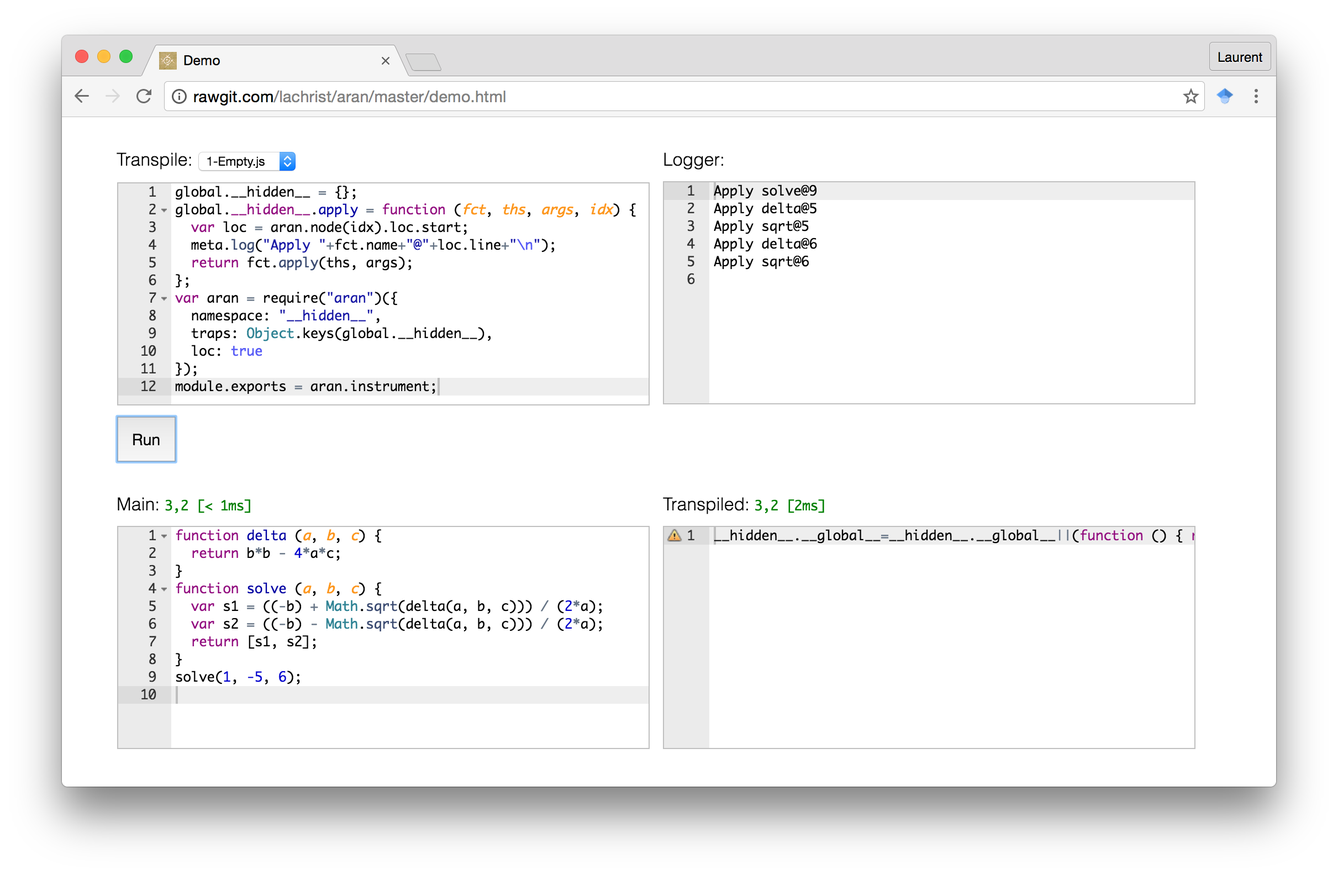
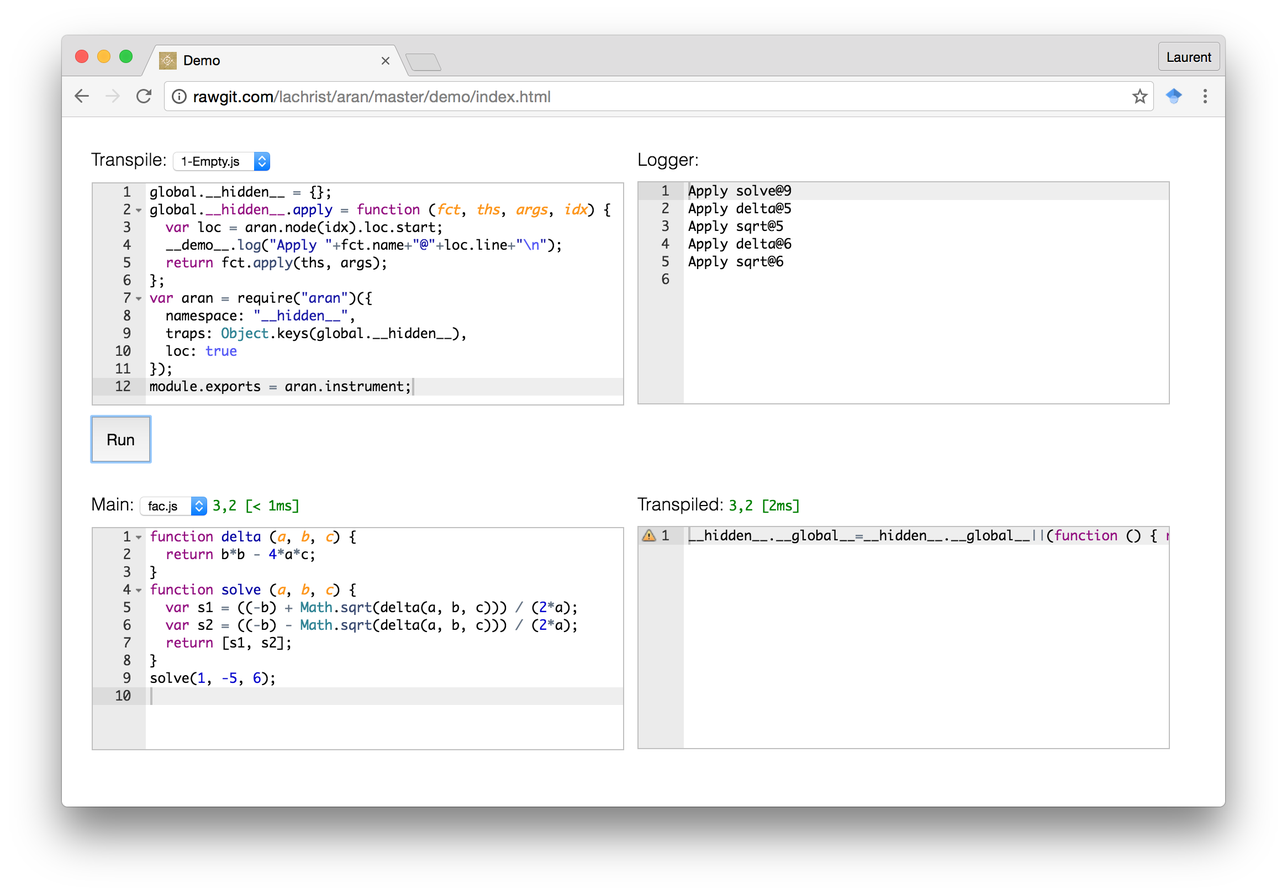
Update with new Otiluke transpiler format

diff --git a/demo/index.html b/demo/index.html
@@ -10368,10 +10368,6 @@ traps.expression = function (namespace, value, index) { return namespace+".expre
 forwards.expression = function (_, value, index) { return value }
 
 },{}],7:[function(require,module,exports){
-var namespace = "__demo__";
-var transpiles = {"1-Empty.js":"// This analysis does absolutely nothing! *yay* //\nvar Aran = require(\"aran\");\nvar JsBeautify = require(\"js-beautify\");\nvar traps = {};\nglobal.__hidden__ = traps;\nvar aran = Aran({namespace:\"__hidden__\", traps:Object.keys(traps)});\nmodule.exports = function (script, source) {\n  return JsBeautify.js_beautify(aran.instrument(script, source));\n};","2-Identity.js":"// This analysis traps everything and forward all operations //\nvar Aran = require(\"aran\");\nvar JsBeautify = require(\"js-beautify\");\nvar traps = {};\n// General //\ntraps.Program = function (idx) { };\ntraps.Strict = function (idx) { };\n// Creation //\ntraps.primitive = function (prm, idx) { return prm };\ntraps.closure = function (fct, idx) { return fct };\ntraps.object = function (prps, idx) {\n  var obj = {};\n  for (var i=0; i<prps.length; i++)\n    Object.defineProperty(obj, prps[i].key, prps[i]);\n  return obj;\n};\ntraps.array = function (vals, idx) { return vals };\ntraps.regexp = function (ptn, flg, idx) { return new RegExp(ptn, flg) }\n// Environment //\ntraps.Declare = function (kind, tags, idx) { };\ntraps.read = function (tag, val, idx) { return val };\ntraps.write = function (tag, val, wrt, idx) { return wrt(val) };\ntraps.Enter = function (idx) { };\ntraps.Leave = function (idx) { };\ntraps.with = function (env, idx) { return env };\n// Apply //\ntraps.apply = function (fct, ths, args, idx) { return fct.apply(ths, args) };\ntraps.construct = function (cst, args, idx) { return new cst(...args) };\ntraps.Arguments = function (args, i) { };\ntraps.return = function (val, idx) { return val };\ntraps.eval = function (args, idx) { return args[0] };\ntraps.unary = function (opr, arg, idx) { return eval(opr+\" arg\") };\ntraps.binary = function (opr, lft, rgt, idx) { return eval(\"lft \"+opr+\" rgt\") };\n// Object //\ntraps.get = function (obj, key, idx) { return obj[key] };\ntraps.set = function (obj, key, val, idx) { return obj[key] = val };\ntraps.delete = function (obj, key, idx) { return delete obj[key] };\ntraps.enumerate = function (obj, idx) {\n  var keys = [];\n  for (var key in obj)\n    keys.push(key);\n  return keys;\n};\n// Control //\ntraps.test = function (val, idx) { return val };\ntraps.Label = function (lbl, idx) { };\ntraps.Break = function (lbl, idx) { };\ntraps.throw = function (err, idx) { return err };\ntraps.Try = function (idx) { };\ntraps.catch = function (err, idx) { return err };\ntraps.Finally = function (idx) { };\ntraps.sequence = function (vals, idx) { return vals[vals.length-1] };\ntraps.expression = function (val, idx) { return val };\n// Exports //\nglobal.__hidden__ = traps;\nvar aran = Aran({namespace:\"__hidden__\", traps:Object.keys(traps)});\nmodule.exports = function (script, source) {\n  return JsBeautify.js_beautify(aran.instrument(script, source));\n};","3-Trace.js":"\n// This analysis traps AND logs everything and forward all operations //\n\n// BEGIN VERBATIM 2-Identity.js //\n// This analysis traps everything and forward all operations //\nvar Aran = require(\"aran\");\nvar JsBeautify = require(\"js-beautify\");\nvar traps = {};\n// General //\ntraps.Program = function (idx) { };\ntraps.Strict = function (idx) { };\n// Creation //\ntraps.primitive = function (prm, idx) { return prm };\ntraps.closure = function (fct, idx) { return fct };\ntraps.object = function (prps, idx) {\n  var obj = {};\n  for (var i=0; i<prps.length; i++)\n    Object.defineProperty(obj, prps[i].key, prps[i]);\n  return obj;\n};\ntraps.array = function (vals, idx) { return vals };\ntraps.regexp = function (ptn, flg, idx) { return new RegExp(ptn, flg) }\n// Environment //\ntraps.Declare = function (kind, tags, idx) { };\ntraps.read = function (tag, val, idx) { return val };\ntraps.write = function (tag, val, wrt, idx) { return wrt(val) };\ntraps.Enter = function (idx) { };\ntraps.Leave = function (idx) { };\ntraps.with = function (env, idx) { return env };\n// Apply //\ntraps.apply = function (fct, ths, args, idx) { return fct.apply(ths, args) };\ntraps.construct = function (cst, args, idx) { return new cst(...args) };\ntraps.Arguments = function (args, i) { };\ntraps.return = function (val, idx) { return val };\ntraps.eval = function (args, idx) { return args[0] };\ntraps.unary = function (opr, arg, idx) { return eval(opr+\" arg\") };\ntraps.binary = function (opr, lft, rgt, idx) { return eval(\"lft \"+opr+\" rgt\") };\n// Object //\ntraps.get = function (obj, key, idx) { return obj[key] };\ntraps.set = function (obj, key, val, idx) { return obj[key] = val };\ntraps.delete = function (obj, key, idx) { return delete obj[key] };\ntraps.enumerate = function (obj, idx) {\n  var keys = [];\n  for (var key in obj)\n    keys.push(key);\n  return keys;\n};\n// Control //\ntraps.test = function (val, idx) { return val };\ntraps.Label = function (lbl, idx) { };\ntraps.Break = function (lbl, idx) { };\ntraps.throw = function (err, idx) { return err };\ntraps.Try = function (idx) { };\ntraps.catch = function (err, idx) { return err };\ntraps.Finally = function (idx) { };\ntraps.sequence = function (vals, idx) { return vals[vals.length-1] };\ntraps.expression = function (val, idx) { return val };\n// Exports //\nglobal.__hidden__ = traps;\nvar aran = Aran({namespace:\"__hidden__\", traps:Object.keys(traps)});\nmodule.exports = aran.instrument;\n// END VERBATIM 2-Identity.js //\n\nvar log = (function () {\n  function locate (index) {\n    var node = aran.node(index);\n    var source = aran.source(index);\n    var loc = node.loc.start;\n    return node.type + \"@\" + source + \"#\" + loc.line + \":\" + loc.column;\n  }\n  function message (name, array) {\n    var string = name+\" \"+locate(array[array.length-1]) + \" >>\";\n    for (var i=0; i<array.length-1; i++)\n      string += (\" \" + array[i]).substring(0, 10);\n    return string;\n  }\n  return global.meta\n    ? function (name, array) { meta.log(message(name, array)+\"\\n\") }\n    : function (name, array) { console.log(message(name, array)) };\n} ());\n\nvar traps2 = {};\nObject.keys(traps).forEach(function (name) {\n  traps2[name] = function () {\n    log(name, arguments);\n    return traps[name].apply(undefined, arguments);\n  };\n});\nglobal.__ = traps2;\nvar aran = Aran({namespace:\"__\", traps:Object.keys(traps2), loc:true});\nmodule.exports = function (script, source) {\n  return JsBeautify.js_beautify(aran.instrument(script, source));\n};\n"};
-var mains = {"fac.js":"\nfunction fac (n) {\n  if (n <= 0)\n    return 1;\n  return n * fac(n - 1);\n}\n\nfac(6);\n","fibo.js":"\nfunction fibo (n) {\n  if (n < 2)\n    return n;\n  return fibo(n - 1) + fibo(n -2);\n}\n\nfibo(6);\n"};
-// The variables 'namespace' 'transpiles' and 'mains' should be defined //
 window.addEventListener("load", function () {
   var editors = {};
   // Editors //
@@ -10406,10 +10402,8 @@ window.addEventListener("load", function () {
   // Select //
   (function () {
     function select (select, editor, templates) {
-      if (!Object.keys(templates).length) {
-        editor.__selected__ = "mains.js";
+      if (!Object.keys(templates).length)
         return select.parentNode.removeChild(select);
-      }
       select.onchange = function () {
         templates[editor.__selected__] = editor.getValue();
         editor.setValue(templates[editor.__selected__ = select.value], -1)
@@ -10425,17 +10419,12 @@ window.addEventListener("load", function () {
         select.appendChild(option);
       });
     }
-    select(document.getElementById("transpile-select"), editors.transpile, transpiles);
-    select(document.getElementById("main-select"), editors.main, mains);
+    select(document.getElementById("transpile-select"), editors.transpile, {"1-Empty.js":"// This analysis does absolutely nothing! *yay* //\nvar Aran = require(\"aran\");\nvar JsBeautify = require(\"js-beautify\");\nmodule.exports = function (options) {\n  var traps = {};\n  global.__hidden__ = traps;\n  var aran = Aran({namespace:\"__hidden__\", traps:Object.keys(traps)});\n  return function (script, source) {\n    return JsBeautify.js_beautify(aran.instrument(script, source));\n  };\n};","2-Identity.js":"// This analysis traps everything and forward all operations //\nvar Aran = require(\"aran\");\nvar JsBeautify = require(\"js-beautify\");\nmodule.exports = function (options) {\n  var traps = {};\n  // General //\n  traps.Program = function (idx) { };\n  traps.Strict = function (idx) { };\n  // Creation //\n  traps.primitive = function (prm, idx) { return prm };\n  traps.closure = function (fct, idx) { return fct };\n  traps.object = function (prps, idx) {\n    var obj = {};\n    for (var i=0; i<prps.length; i++)\n      Object.defineProperty(obj, prps[i].key, prps[i]);\n    return obj;\n  };\n  traps.array = function (vals, idx) { return vals };\n  traps.regexp = function (ptn, flg, idx) { return new RegExp(ptn, flg) }\n  // Environment //\n  traps.Declare = function (kind, tags, idx) { };\n  traps.read = function (tag, val, idx) { return val };\n  traps.write = function (tag, val, wrt, idx) { return wrt(val) };\n  traps.Enter = function (idx) { };\n  traps.Leave = function (idx) { };\n  traps.with = function (env, idx) { return env };\n  // Apply //\n  traps.apply = function (fct, ths, args, idx) { return fct.apply(ths, args) };\n  traps.construct = function (cst, args, idx) { return new cst(...args) };\n  traps.Arguments = function (args, i) { };\n  traps.return = function (val, idx) { return val };\n  traps.eval = function (args, idx) { return args[0] };\n  traps.unary = function (opr, arg, idx) { return eval(opr+\" arg\") };\n  traps.binary = function (opr, lft, rgt, idx) { return eval(\"lft \"+opr+\" rgt\") };\n  // Object //\n  traps.get = function (obj, key, idx) { return obj[key] };\n  traps.set = function (obj, key, val, idx) { return obj[key] = val };\n  traps.delete = function (obj, key, idx) { return delete obj[key] };\n  traps.enumerate = function (obj, idx) {\n    var keys = [];\n    for (var key in obj)\n      keys.push(key);\n    return keys;\n  };\n  // Control //\n  traps.test = function (val, idx) { return val };\n  traps.Label = function (lbl, idx) { };\n  traps.Break = function (lbl, idx) { };\n  traps.throw = function (err, idx) { return err };\n  traps.Try = function (idx) { };\n  traps.catch = function (err, idx) { return err };\n  traps.Finally = function (idx) { };\n  traps.sequence = function (vals, idx) { return vals[vals.length-1] };\n  traps.expression = function (val, idx) { return val };\n  // Exports //\n  global.__hidden__ = traps;\n  var aran = Aran({namespace:\"__hidden__\", traps:Object.keys(traps)});\n  return function (script, source) {\n    return JsBeautify.js_beautify(aran.instrument(script, source));\n  };\n};","3-Trace.js":"// This analysis traps AND logs everything and forward all operations //\nvar Aran = require(\"aran\");\nvar JsBeautify = require(\"js-beautify\");\nmodule.exports = function (options) {\n  // traps is a verbatim copy of 2-Identity.js //\n  var traps = {};\n  // General //\n  traps.Program = function (idx) { };\n  traps.Strict = function (idx) { };\n  // Creation //\n  traps.primitive = function (prm, idx) { return prm };\n  traps.closure = function (fct, idx) { return fct };\n  traps.object = function (prps, idx) {\n    var obj = {};\n    for (var i=0; i<prps.length; i++)\n      Object.defineProperty(obj, prps[i].key, prps[i]);\n    return obj;\n  };\n  traps.array = function (vals, idx) { return vals };\n  traps.regexp = function (ptn, flg, idx) { return new RegExp(ptn, flg) }\n  // Environment //\n  traps.Declare = function (kind, tags, idx) { };\n  traps.read = function (tag, val, idx) { return val };\n  traps.write = function (tag, val, wrt, idx) { return wrt(val) };\n  traps.Enter = function (idx) { };\n  traps.Leave = function (idx) { };\n  traps.with = function (env, idx) { return env };\n  // Apply //\n  traps.apply = function (fct, ths, args, idx) { return fct.apply(ths, args) };\n  traps.construct = function (cst, args, idx) { return new cst(...args) };\n  traps.Arguments = function (args, i) { };\n  traps.return = function (val, idx) { return val };\n  traps.eval = function (args, idx) { return args[0] };\n  traps.unary = function (opr, arg, idx) { return eval(opr+\" arg\") };\n  traps.binary = function (opr, lft, rgt, idx) { return eval(\"lft \"+opr+\" rgt\") };\n  // Object //\n  traps.get = function (obj, key, idx) { return obj[key] };\n  traps.set = function (obj, key, val, idx) { return obj[key] = val };\n  traps.delete = function (obj, key, idx) { return delete obj[key] };\n  traps.enumerate = function (obj, idx) {\n    var keys = [];\n    for (var key in obj)\n      keys.push(key);\n    return keys;\n  };\n  // Control //\n  traps.test = function (val, idx) { return val };\n  traps.Label = function (lbl, idx) { };\n  traps.Break = function (lbl, idx) { };\n  traps.throw = function (err, idx) { return err };\n  traps.Try = function (idx) { };\n  traps.catch = function (err, idx) { return err };\n  traps.Finally = function (idx) { };\n  traps.sequence = function (vals, idx) { return vals[vals.length-1] };\n  traps.expression = function (val, idx) { return val };\n  // Log specific //\n  function locate (idx) {\n    var node = aran.node(idx);\n    var source = aran.source(idx);\n    var loc = node.loc.start;\n    return node.type + \"@\" + source + \"#\" + loc.line + \":\" + loc.column;\n  }\n  function logtrap (key, args) {\n    var data = name + \" \" + locate(args[args.length - 1]) + \" >>\";\n    for (var i=0; i<args.length - 1; i++)\n      data += (\" \" + args[i]).substring(0, 10);\n    options.log(data+\"\\n\");\n  }\n  var traps2 = {};\n  Object.keys(traps).forEach(function (name) {\n    traps2[name] = function () {\n      logtrap(name, arguments);\n      return traps[name].apply(undefined, arguments);\n    };\n  });\n  // Exports //\n  global.__ = traps2;\n  var aran = Aran({namespace:\"__\", traps:Object.keys(traps2), loc:true});\n  return function (script, source) {\n    return JsBeautify.js_beautify(aran.instrument(script, source));\n  };\n};"});
+    select(document.getElementById("main-select"), editors.main, {"fac.js":"\nfunction fac (n) {\n  if (n <= 0)\n    return 1;\n  return n * fac(n - 1);\n}\n\nfac(6);\n","fibo.js":"\nfunction fibo (n) {\n  if (n < 2)\n    return n;\n  return fibo(n - 1) + fibo(n -2);\n}\n\nfibo(6);\n"});
+    editors.main.__selected__ || (editors.main.__selected__ = "main.js");
   } ());
   // Benchmark //
   (function () {
-    var buffer = [];
-    Object.defineProperty(this, namespace, {
-      value: {
-        log: function (message) { buffer.push(message) }
-      }
-    });
     function benchmark (code, span) {
       try {
         var t1 = performance.now(), r = window.eval(code), t2 = performance.now();
@@ -10452,7 +10441,7 @@ window.addEventListener("load", function () {
     document.getElementById("run-button").onclick = function () {
       editors.logger.setValue("", -1);
       benchmark(editors.main.getValue(), document.getElementById("main-span"));
-      var module = {};
+      var module = {exports:{}};
       try {
         (new Function("module", "global", editors.transpile.getValue()))(module, window);
       } catch (error) {
@@ -10460,9 +10449,11 @@ window.addEventListener("load", function () {
         throw error;
       }
       if (typeof module.exports !== "function")
-        return alert("The transpile does not 'module.exports' a function");
+        return alert("The transpiler does not 'module.exports' a function");
+      var buffer = [];
+      var transpile = module.exports({log: function (data) { buffer.push(data) }});
       try {
-        var transpiled = module.exports(editors.main.getValue(), editors.main.__selected__);
+        var transpiled = transpile(editors.main.getValue(), editors.main.__selected__);
       } catch (error) {
         alert("Failed to transpile "+editors.main.__selected__+": "+error);
         throw error;
@@ -10470,7 +10461,6 @@ window.addEventListener("load", function () {
       editors.transpiled.setValue(transpiled, -1);
       benchmark(editors.transpiled.getValue(), document.getElementById("transpiled-span"));
       editors.logger.setValue(buffer.join(""), -1);
-      buffer = [];
     };
   } ());
 });

diff --git a/analyses/3-Trace.js b/analyses/3-Trace.js
@@ -1,93 +1,82 @@
-
 // This analysis traps AND logs everything and forward all operations //
-
-// BEGIN VERBATIM 2-Identity.js //
-// This analysis traps everything and forward all operations //
 var Aran = require("aran");
 var JsBeautify = require("js-beautify");
-var traps = {};
-// General //
-traps.Program = function (idx) { };
-traps.Strict = function (idx) { };
-// Creation //
-traps.primitive = function (prm, idx) { return prm };
-traps.closure = function (fct, idx) { return fct };
-traps.object = function (prps, idx) {
-  var obj = {};
-  for (var i=0; i<prps.length; i++)
-    Object.defineProperty(obj, prps[i].key, prps[i]);
-  return obj;
-};
-traps.array = function (vals, idx) { return vals };
-traps.regexp = function (ptn, flg, idx) { return new RegExp(ptn, flg) }
-// Environment //
-traps.Declare = function (kind, tags, idx) { };
-traps.read = function (tag, val, idx) { return val };
-traps.write = function (tag, val, wrt, idx) { return wrt(val) };
-traps.Enter = function (idx) { };
-traps.Leave = function (idx) { };
-traps.with = function (env, idx) { return env };
-// Apply //
-traps.apply = function (fct, ths, args, idx) { return fct.apply(ths, args) };
-traps.construct = function (cst, args, idx) { return new cst(...args) };
-traps.Arguments = function (args, i) { };
-traps.return = function (val, idx) { return val };
-traps.eval = function (args, idx) { return args[0] };
-traps.unary = function (opr, arg, idx) { return eval(opr+" arg") };
-traps.binary = function (opr, lft, rgt, idx) { return eval("lft "+opr+" rgt") };
-// Object //
-traps.get = function (obj, key, idx) { return obj[key] };
-traps.set = function (obj, key, val, idx) { return obj[key] = val };
-traps.delete = function (obj, key, idx) { return delete obj[key] };
-traps.enumerate = function (obj, idx) {
-  var keys = [];
-  for (var key in obj)
-    keys.push(key);
-  return keys;
-};
-// Control //
-traps.test = function (val, idx) { return val };
-traps.Label = function (lbl, idx) { };
-traps.Break = function (lbl, idx) { };
-traps.throw = function (err, idx) { return err };
-traps.Try = function (idx) { };
-traps.catch = function (err, idx) { return err };
-traps.Finally = function (idx) { };
-traps.sequence = function (vals, idx) { return vals[vals.length-1] };
-traps.expression = function (val, idx) { return val };
-// Exports //
-global.__hidden__ = traps;
-var aran = Aran({namespace:"__hidden__", traps:Object.keys(traps)});
-module.exports = aran.instrument;
-// END VERBATIM 2-Identity.js //
-
-var log = (function () {
-  function locate (index) {
-    var node = aran.node(index);
-    var source = aran.source(index);
+module.exports = function (options) {
+  // traps is a verbatim copy of 2-Identity.js //
+  var traps = {};
+  // General //
+  traps.Program = function (idx) { };
+  traps.Strict = function (idx) { };
+  // Creation //
+  traps.primitive = function (prm, idx) { return prm };
+  traps.closure = function (fct, idx) { return fct };
+  traps.object = function (prps, idx) {
+    var obj = {};
+    for (var i=0; i<prps.length; i++)
+      Object.defineProperty(obj, prps[i].key, prps[i]);
+    return obj;
+  };
+  traps.array = function (vals, idx) { return vals };
+  traps.regexp = function (ptn, flg, idx) { return new RegExp(ptn, flg) }
+  // Environment //
+  traps.Declare = function (kind, tags, idx) { };
+  traps.read = function (tag, val, idx) { return val };
+  traps.write = function (tag, val, wrt, idx) { return wrt(val) };
+  traps.Enter = function (idx) { };
+  traps.Leave = function (idx) { };
+  traps.with = function (env, idx) { return env };
+  // Apply //
+  traps.apply = function (fct, ths, args, idx) { return fct.apply(ths, args) };
+  traps.construct = function (cst, args, idx) { return new cst(...args) };
+  traps.Arguments = function (args, i) { };
+  traps.return = function (val, idx) { return val };
+  traps.eval = function (args, idx) { return args[0] };
+  traps.unary = function (opr, arg, idx) { return eval(opr+" arg") };
+  traps.binary = function (opr, lft, rgt, idx) { return eval("lft "+opr+" rgt") };
+  // Object //
+  traps.get = function (obj, key, idx) { return obj[key] };
+  traps.set = function (obj, key, val, idx) { return obj[key] = val };
+  traps.delete = function (obj, key, idx) { return delete obj[key] };
+  traps.enumerate = function (obj, idx) {
+    var keys = [];
+    for (var key in obj)
+      keys.push(key);
+    return keys;
+  };
+  // Control //
+  traps.test = function (val, idx) { return val };
+  traps.Label = function (lbl, idx) { };
+  traps.Break = function (lbl, idx) { };
+  traps.throw = function (err, idx) { return err };
+  traps.Try = function (idx) { };
+  traps.catch = function (err, idx) { return err };
+  traps.Finally = function (idx) { };
+  traps.sequence = function (vals, idx) { return vals[vals.length-1] };
+  traps.expression = function (val, idx) { return val };
+  // Log specific //
+  function locate (idx) {
+    var node = aran.node(idx);
+    var source = aran.source(idx);
     var loc = node.loc.start;
     return node.type + "@" + source + "#" + loc.line + ":" + loc.column;
   }
-  function message (name, array) {
-    var string = name+" "+locate(array[array.length-1]) + " >>";
-    for (var i=0; i<array.length-1; i++)
-      string += (" " + array[i]).substring(0, 10);
-    return string;
+  function logtrap (key, args) {
+    var data = name + " " + locate(args[args.length - 1]) + " >>";
+    for (var i=0; i<args.length - 1; i++)
+      data += (" " + args[i]).substring(0, 10);
+    options.log(data+"\n");
   }
-  return global.meta
-    ? function (name, array) { meta.log(message(name, array)+"\n") }
-    : function (name, array) { console.log(message(name, array)) };
-} ());
-
-var traps2 = {};
-Object.keys(traps).forEach(function (name) {
-  traps2[name] = function () {
-    log(name, arguments);
-    return traps[name].apply(undefined, arguments);
+  var traps2 = {};
+  Object.keys(traps).forEach(function (name) {
+    traps2[name] = function () {
+      logtrap(name, arguments);
+      return traps[name].apply(undefined, arguments);
+    };
+  });
+  // Exports //
+  global.__ = traps2;
+  var aran = Aran({namespace:"__", traps:Object.keys(traps2), loc:true});
+  return function (script, source) {
+    return JsBeautify.js_beautify(aran.instrument(script, source));
   };
-});
-global.__ = traps2;
-var aran = Aran({namespace:"__", traps:Object.keys(traps2), loc:true});
-module.exports = function (script, source) {
-  return JsBeautify.js_beautify(aran.instrument(script, source));
 };

diff --git a/analyses/2-Identity.js b/analyses/2-Identity.js
@@ -1,59 +1,61 @@
 // This analysis traps everything and forward all operations //
 var Aran = require("aran");
 var JsBeautify = require("js-beautify");
-var traps = {};
-// General //
-traps.Program = function (idx) { };
-traps.Strict = function (idx) { };
-// Creation //
-traps.primitive = function (prm, idx) { return prm };
-traps.closure = function (fct, idx) { return fct };
-traps.object = function (prps, idx) {
-  var obj = {};
-  for (var i=0; i<prps.length; i++)
-    Object.defineProperty(obj, prps[i].key, prps[i]);
-  return obj;
-};
-traps.array = function (vals, idx) { return vals };
-traps.regexp = function (ptn, flg, idx) { return new RegExp(ptn, flg) }
-// Environment //
-traps.Declare = function (kind, tags, idx) { };
-traps.read = function (tag, val, idx) { return val };
-traps.write = function (tag, val, wrt, idx) { return wrt(val) };
-traps.Enter = function (idx) { };
-traps.Leave = function (idx) { };
-traps.with = function (env, idx) { return env };
-// Apply //
-traps.apply = function (fct, ths, args, idx) { return fct.apply(ths, args) };
-traps.construct = function (cst, args, idx) { return new cst(...args) };
-traps.Arguments = function (args, i) { };
-traps.return = function (val, idx) { return val };
-traps.eval = function (args, idx) { return args[0] };
-traps.unary = function (opr, arg, idx) { return eval(opr+" arg") };
-traps.binary = function (opr, lft, rgt, idx) { return eval("lft "+opr+" rgt") };
-// Object //
-traps.get = function (obj, key, idx) { return obj[key] };
-traps.set = function (obj, key, val, idx) { return obj[key] = val };
-traps.delete = function (obj, key, idx) { return delete obj[key] };
-traps.enumerate = function (obj, idx) {
-  var keys = [];
-  for (var key in obj)
-    keys.push(key);
-  return keys;
-};
-// Control //
-traps.test = function (val, idx) { return val };
-traps.Label = function (lbl, idx) { };
-traps.Break = function (lbl, idx) { };
-traps.throw = function (err, idx) { return err };
-traps.Try = function (idx) { };
-traps.catch = function (err, idx) { return err };
-traps.Finally = function (idx) { };
-traps.sequence = function (vals, idx) { return vals[vals.length-1] };
-traps.expression = function (val, idx) { return val };
-// Exports //
-global.__hidden__ = traps;
-var aran = Aran({namespace:"__hidden__", traps:Object.keys(traps)});
-module.exports = function (script, source) {
-  return JsBeautify.js_beautify(aran.instrument(script, source));
+module.exports = function (options) {
+  var traps = {};
+  // General //
+  traps.Program = function (idx) { };
+  traps.Strict = function (idx) { };
+  // Creation //
+  traps.primitive = function (prm, idx) { return prm };
+  traps.closure = function (fct, idx) { return fct };
+  traps.object = function (prps, idx) {
+    var obj = {};
+    for (var i=0; i<prps.length; i++)
+      Object.defineProperty(obj, prps[i].key, prps[i]);
+    return obj;
+  };
+  traps.array = function (vals, idx) { return vals };
+  traps.regexp = function (ptn, flg, idx) { return new RegExp(ptn, flg) }
+  // Environment //
+  traps.Declare = function (kind, tags, idx) { };
+  traps.read = function (tag, val, idx) { return val };
+  traps.write = function (tag, val, wrt, idx) { return wrt(val) };
+  traps.Enter = function (idx) { };
+  traps.Leave = function (idx) { };
+  traps.with = function (env, idx) { return env };
+  // Apply //
+  traps.apply = function (fct, ths, args, idx) { return fct.apply(ths, args) };
+  traps.construct = function (cst, args, idx) { return new cst(...args) };
+  traps.Arguments = function (args, i) { };
+  traps.return = function (val, idx) { return val };
+  traps.eval = function (args, idx) { return args[0] };
+  traps.unary = function (opr, arg, idx) { return eval(opr+" arg") };
+  traps.binary = function (opr, lft, rgt, idx) { return eval("lft "+opr+" rgt") };
+  // Object //
+  traps.get = function (obj, key, idx) { return obj[key] };
+  traps.set = function (obj, key, val, idx) { return obj[key] = val };
+  traps.delete = function (obj, key, idx) { return delete obj[key] };
+  traps.enumerate = function (obj, idx) {
+    var keys = [];
+    for (var key in obj)
+      keys.push(key);
+    return keys;
+  };
+  // Control //
+  traps.test = function (val, idx) { return val };
+  traps.Label = function (lbl, idx) { };
+  traps.Break = function (lbl, idx) { };
+  traps.throw = function (err, idx) { return err };
+  traps.Try = function (idx) { };
+  traps.catch = function (err, idx) { return err };
+  traps.Finally = function (idx) { };
+  traps.sequence = function (vals, idx) { return vals[vals.length-1] };
+  traps.expression = function (val, idx) { return val };
+  // Exports //
+  global.__hidden__ = traps;
+  var aran = Aran({namespace:"__hidden__", traps:Object.keys(traps)});
+  return function (script, source) {
+    return JsBeautify.js_beautify(aran.instrument(script, source));
+  };
 };

diff --git a/analyses/1-Empty.js b/analyses/1-Empty.js
@@ -1,9 +1,11 @@
 // This analysis does absolutely nothing! *yay* //
 var Aran = require("aran");
 var JsBeautify = require("js-beautify");
-var traps = {};
-global.__hidden__ = traps;
-var aran = Aran({namespace:"__hidden__", traps:Object.keys(traps)});
-module.exports = function (script, source) {
-  return JsBeautify.js_beautify(aran.instrument(script, source));
+module.exports = function (options) {
+  var traps = {};
+  global.__hidden__ = traps;
+  var aran = Aran({namespace:"__hidden__", traps:Object.keys(traps)});
+  return function (script, source) {
+    return JsBeautify.js_beautify(aran.instrument(script, source));
+  };
 };

diff --git a/README.md b/README.md
@@ -9,11 +9,11 @@ Various module systems are supported in a separate module called [Otiluke](https
 ## Demonstration
 
 In Aran, an analysis consists in a set of syntactic traps that will be triggered while the program under scrutiny is being executed.
-For instance, the expression `x + y` may be transformed into `aran.binary('+', x, y)` which triggers the `binary` trap.
+For instance, the expression `x + y` may be transformed into `__hidden__.binary('+', x, y)` which triggers the `binary` trap.
 The best way to get familiar with Aran is by toying with its [demo page](http://rawgit.com/lachrist/aran/master/demo/index.html) built with [Otiluke](https://github.com/lachrist/otiluke).
 The 'transpile' editor expects a script exporting an instrumentation function.
 The monolithic program to instrument can be typed into the 'main' editor.
-Note than 
+Note that [Otiluke](https://github.com/lachrist/otiluke) provide a separate log chanel
 
 <img src="readme/demo.png" align="center" alt="demo-screenshot" title="Aran's demonstration page"/>
 
